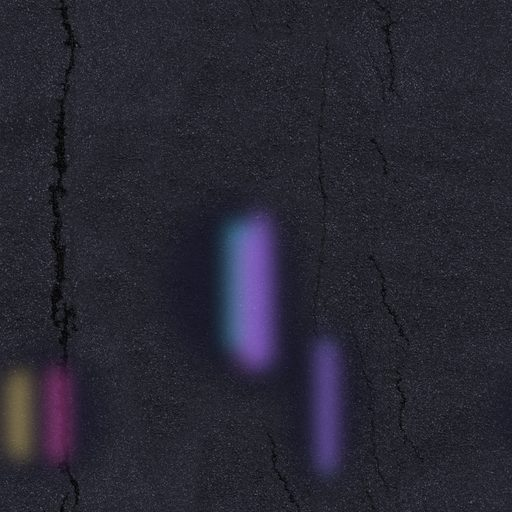
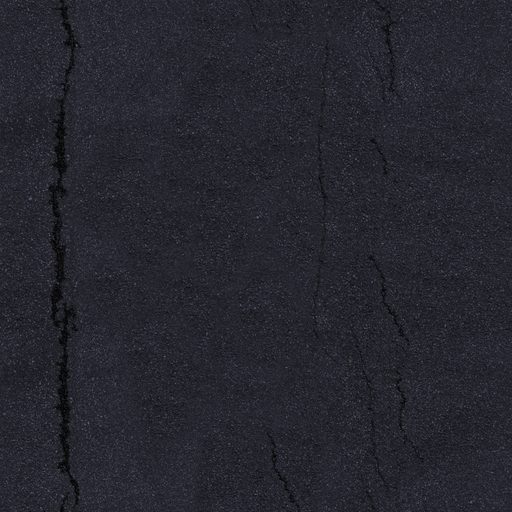
Hong Kong : chaussée sans traînées colorées (asphalte seul), reflets gardés sur les trottoirs

Changed region(s): [[0.4062, 0.4062, 0.5625, 0.75], [0.0, 0.6875, 0.1562, 0.9062], [0.5938, 0.6562, 0.6875, 0.9375]]

diff --git a/js/levels/hongkong/textures.js b/js/levels/hongkong/textures.js
@@ -294,8 +294,7 @@ const INTERIOR_PAINTERS = [
 
 // ---------- Sol ----------
 // Chaussée et trottoirs : photos de Poly Haven (models/hongkong/LICENSE.txt) préparées pour la nuit. Asphalte
-// fissuré et flaques qui reflètent les néons (road.jpg, 3 m par répétition), petits carreaux du trottoir
-// (sidewalk.jpg, 2,4 m).
+// fissuré (road.jpg, 3 m par répétition), petits carreaux du trottoir (sidewalk.jpg, 2,4 m).
 function photoTex(name) {
   const t = new THREE.TextureLoader().load(new URL('../../../models/hongkong/' + name, import.meta.url).href);
   t.colorSpace = THREE.SRGBColorSpace;
